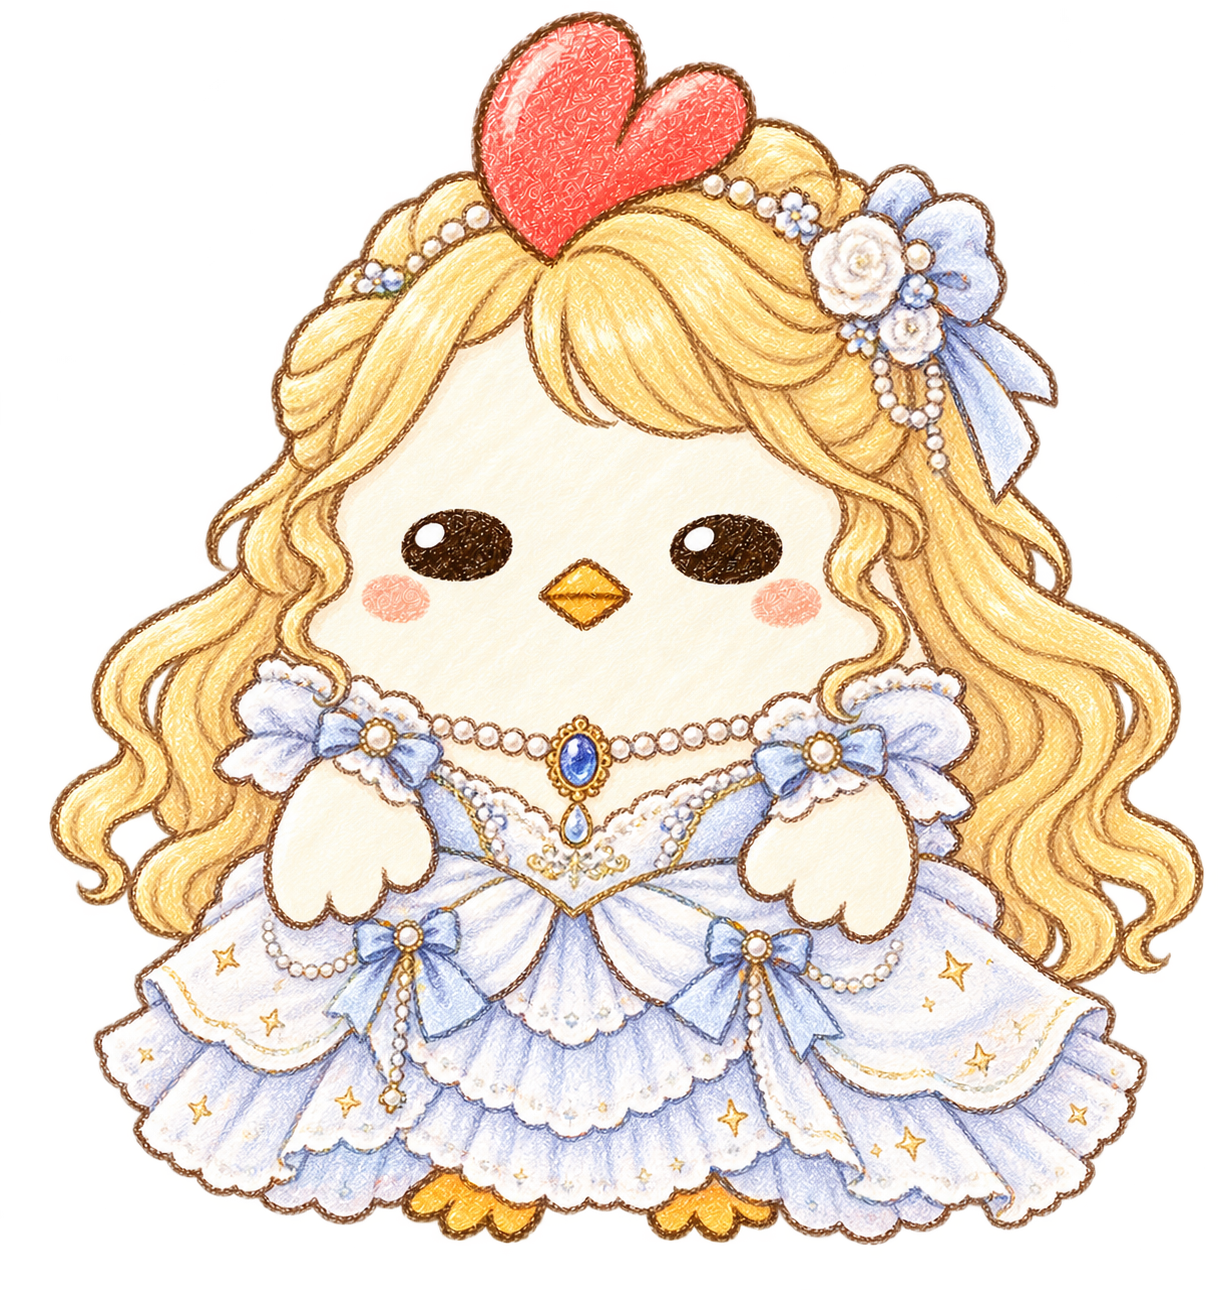
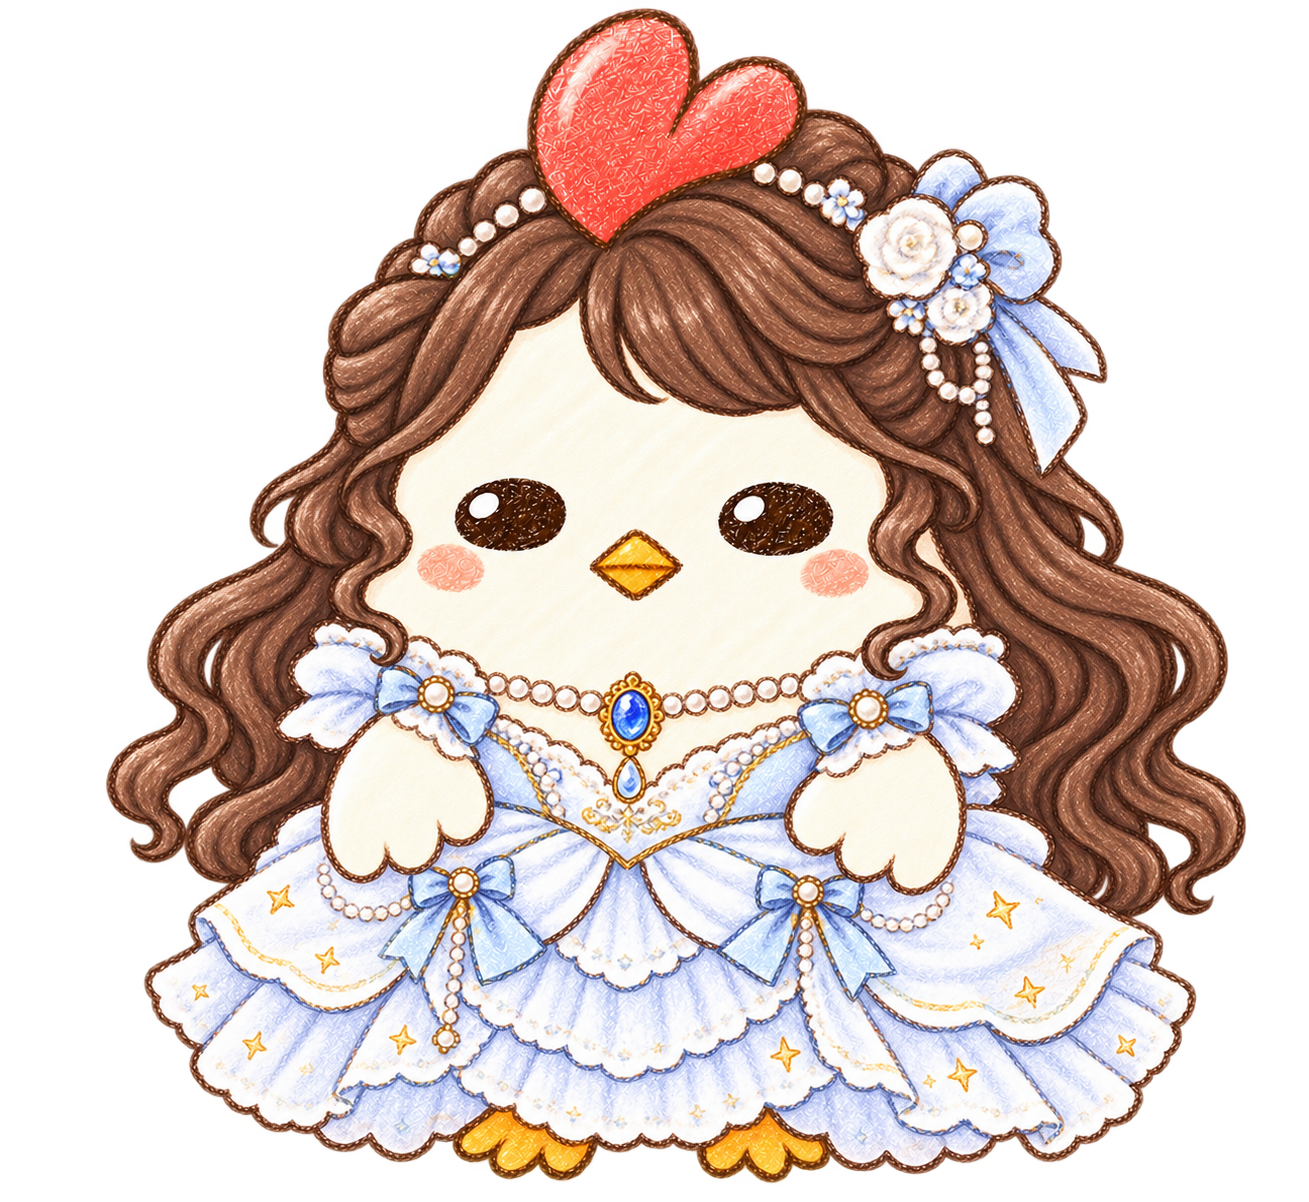
Add tier colors, rename fantasy series, and fix costume copy/art
- Green/purple accent colors for normal/premium tier tags on costume screen
- Rename dark-fantasy series to fantasy, with new costume names/lines
- Fill in flavor text for tshirt and fantasy costume lines
- Fix mismatched princess dress artwork
- Bump expo/expo-constants/expo-file-system to expected SDK 54 versions

diff --git a/src/lib/costumes.ts b/src/lib/costumes.ts
@@ -189,177 +189,177 @@ export const COSTUMES = [
     image: require('@/assets/images/mascot/costume-birthday-cake-premium.png'),
     hasOwnBackground: true,
     ticketCost: null,
-    comment: '',
+    comment: '今日は特別な日だね！\n大切なきみのために\n一生懸命つくったよ!',
   },
   {
     id: 'tshirt-white',
-    label: 'きがるTシャツ（ホワイト）',
+    label: '並盛りほわいと',
     tier: 'normal',
     series: 'daily',
     image: require('@/assets/images/mascot/costume-tshirt-white.png'),
     hasOwnBackground: false,
     ticketCost: 1,
-    comment: '',
+    comment: 'ぐぅぅぅ～\nおなか空いちゃったなあ\nたくさんごはん食べたいかも',
   },
   {
     id: 'tshirt-black',
-    label: 'きがるTシャツ（ブラック）',
+    label: '焦がしぶらっく',
     tier: 'normal',
     series: 'daily',
     image: require('@/assets/images/mascot/costume-tshirt-black.png'),
     hasOwnBackground: false,
     ticketCost: 1,
-    comment: '',
+    comment: 'くろってなんだか\nかっこいい気がするんだ\nちょっぴりおとなの気分！',
   },
   {
     id: 'tshirt-red',
-    label: 'きがるTシャツ（レッド）',
+    label: '完熟れっど',
     tier: 'normal',
     series: 'daily',
     image: require('@/assets/images/mascot/costume-tshirt-red.png'),
     hasOwnBackground: false,
     ticketCost: 1,
-    comment: '',
+    comment: '真っ赤な元気カラー！\nトマトさんみたいでしょ？',
   },
   {
     id: 'tshirt-blue',
-    label: 'きがるTシャツ（ブルー）',
+    label: 'はらぺこぶるー',
     tier: 'normal',
     series: 'daily',
     image: require('@/assets/images/mascot/costume-tshirt-blue.png'),
     hasOwnBackground: false,
     ticketCost: 1,
-    comment: '',
+    comment: '青はごはんがいらなくなる\n色だって言うけど関係ない\nごはんはいつだっておいしい！',
   },
   {
     id: 'tshirt-yellow',
-    label: 'きがるTシャツ（イエロー）',
+    label: 'とろけるいえろー',
     tier: 'normal',
     series: 'daily',
     image: require('@/assets/images/mascot/costume-tshirt-yellow.png'),
     hasOwnBackground: false,
     ticketCost: 1,
-    comment: '',
+    comment: '特別な日の朝ごはんは\nトーストにチーズと目玉焼き！\n元気いっぱいの魔法のごはん',
   },
   {
     id: 'tshirt-green',
-    label: 'きがるTシャツ（グリーン）',
+    label: '採れたてぐりーん',
     tier: 'normal',
     series: 'daily',
     image: require('@/assets/images/mascot/costume-tshirt-green.png'),
     hasOwnBackground: false,
     ticketCost: 1,
-    comment: '',
+    comment: 'お日様浴びたお野菜\n食べたくなってきちゃった\nドレッシングは何がいいかな？',
   },
   {
     id: 'tshirt-pink',
-    label: 'きがるTシャツ（ピンク）',
+    label: 'ときめきぴんく',
     tier: 'normal',
     series: 'daily',
     image: require('@/assets/images/mascot/costume-tshirt-pink.png'),
     hasOwnBackground: false,
     ticketCost: 1,
-    comment: '',
+    comment: '初恋っておいしいのかな？\n甘酸っぱいってことは\nいちごと一緒ってこと？',
   },
   {
     id: 'tshirt-skyblue',
-    label: 'きがるTシャツ（サックス）',
+    label: 'ひんやりそーだ',
     tier: 'normal',
     series: 'daily',
     image: require('@/assets/images/mascot/costume-tshirt-skyblue.png'),
     hasOwnBackground: false,
     ticketCost: 1,
-    comment: '',
+    comment: '水色じゃないよ。ソーダ色\nだってその方がおいしそう\nかき氷食べたくなってきた',
   },
   {
     id: 'tshirt-orange',
-    label: 'きがるTシャツ（オレンジ）',
+    label: 'ごきげんおれんじ',
     tier: 'normal',
     series: 'daily',
     image: require('@/assets/images/mascot/costume-tshirt-orange.png'),
     hasOwnBackground: false,
     ticketCost: 1,
-    comment: '',
+    comment: 'オレンジと言えば\nやっぱり太陽の元気カラー！\n今日もいい日になりそう！',
   },
   {
     id: 'tshirt-purple',
-    label: 'きがるTシャツ（パープル）',
+    label: 'いたずらぱーぷる',
     tier: 'normal',
     series: 'daily',
     image: require('@/assets/images/mascot/costume-tshirt-purple.png'),
     hasOwnBackground: false,
     ticketCost: 1,
-    comment: '',
+    comment: '今日のごはんはなんだろう？\nちょっとくらいつまみ食い\nしてもいいよね？',
   },
   {
     id: 'tshirt-meat-premium',
-    label: 'きがるTシャツ（I♥肉）',
+    label: 'お肉まっしぐら',
     tier: 'premium',
     series: 'daily',
     image: require('@/assets/images/mascot/costume-tshirt-meat-premium.png'),
     hasOwnBackground: true,
     ticketCost: 1,
-    comment: '',
+    comment: 'じゅるり……。\nこのにおい……お肉っっ！！',
   },
   {
     id: 'dark-fantasy-princess',
-    label: 'ダークファンタジー（プリンセスドレス）',
+    label: '私だけの歌姫',
     tier: 'normal',
     series: 'dark-fantasy',
     image: require('@/assets/images/mascot/costume-dark-fantasy-princess.png'),
     hasOwnBackground: false,
     ticketCost: 2,
-    comment: '',
+    comment: '劇場に響き渡る歌姫の声\n私のこと忘れないで\nお昼ごはんは特盛りがいいの',
   },
   {
     id: 'dark-fantasy-mask',
-    label: 'ダークファンタジー（マスカレードドレス）',
+    label: 'わがままプリマドンナ',
     tier: 'normal',
     series: 'dark-fantasy',
     image: require('@/assets/images/mascot/costume-dark-fantasy-mask.png'),
     hasOwnBackground: false,
     ticketCost: 2,
-    comment: '',
+    comment: 'ずっとケーキを見つめているわ\nマスクで顔を隠したら\nバレないとでも思ってる？',
   },
   {
     id: 'dark-fantasy-phantom-premium',
-    label: 'ダークファンタジー（オペラ座の怪人）',
+    label: 'オペラ座の亡霊',
     tier: 'premium',
     series: 'dark-fantasy',
     image: require('@/assets/images/mascot/costume-dark-fantasy-phantom-premium.png'),
     hasOwnBackground: true,
     ticketCost: 1,
-    comment: '',
+    comment: '私の思いは消えないさ\nこのシャンデリアとともに\n本当はみんなと\nごはんを食べたい',
   },
   {
     id: 'dark-fantasy-doll-boy',
-    label: 'ダークファンタジー（おにんぎょう・ボーイ）',
+    label: 'ファンタジー（おにんぎょう・ボーイ）',
     tier: 'normal',
     series: 'dark-fantasy',
     image: require('@/assets/images/mascot/costume-dark-fantasy-doll-boy.png'),
     hasOwnBackground: false,
     ticketCost: 2,
-    comment: '',
+    comment: 'おにんぎょうさんになっちゃった\nカタカタ動くのも\nちょっと楽しいかも？',
   },
   {
     id: 'dark-fantasy-doll-girl',
-    label: 'ダークファンタジー（おにんぎょう・ガール）',
+    label: 'ファンタジー（おにんぎょう・ガール）',
     tier: 'normal',
     series: 'dark-fantasy',
     image: require('@/assets/images/mascot/costume-dark-fantasy-doll-girl.png'),
     hasOwnBackground: false,
     ticketCost: 2,
-    comment: '',
+    comment: 'リボンをつけて\nおすまし人形さんに変身\nでもお腹はぺこぺこだよ',
   },
   {
     id: 'dark-fantasy-puppeteer-premium',
-    label: 'ダークファンタジー（あやつり人形師）',
+    label: 'ファンタジー（あやつり人形師）',
     tier: 'premium',
     series: 'dark-fantasy',
     image: require('@/assets/images/mascot/costume-dark-fantasy-puppeteer-premium.png'),
     hasOwnBackground: true,
     ticketCost: 1,
-    comment: '',
+    comment: '糸を引いてあやつるよ\nみんなの心を動かすのは\nおいしいごはんの魔法かもね',
   },
 ] as const satisfies readonly CostumeDef[];
 

diff --git a/src/app/perokoko-room/costume.tsx b/src/app/perokoko-room/costume.tsx
@@ -55,14 +55,14 @@ const SERIES_FILTERS: { id: CostumeSeries; label: string }[] = [
   { id: 'cooking', label: 'お料理' },
   { id: 'daily', label: '日常' },
   { id: 'animal', label: 'アニマル' },
-  { id: 'dark-fantasy', label: 'ダークファンタジー' },
+  { id: 'dark-fantasy', label: 'ファンタジー' },
 ];
 
 const SERIES_LABEL: Record<CostumeSeries, string> = {
   cooking: 'お料理',
   daily: '日常',
   animal: 'アニマル',
-  'dark-fantasy': 'ダークファンタジー',
+  'dark-fantasy': 'ファンタジー',
 };
 
 const FILTER_PANEL_WIDTH = 220;
@@ -224,8 +224,8 @@ export default function CostumeScreen() {
               <View style={styles.nameTitleRow}>
                 <ThemedText type="smallBold">{selectedOption.label}</ThemedText>
                 <ThemedText
-                  type="small"
-                  themeColor="accent"
+                  type="smallBold"
+                  themeColor={selectedOption.tier === 'premium' ? 'premiumAccent' : 'normalAccent'}
                   style={!selectedOption.tierLabel && styles.tierLabelHidden}>
                   {selectedOption.tierLabel || ' '}
                 </ThemedText>

diff --git a/src/constants/theme.ts b/src/constants/theme.ts
@@ -16,6 +16,8 @@ export const Colors = {
     textSecondary: '#9C8268',
     accent: '#F0955B',
     aiAccent: '#B28962',
+    premiumAccent: '#7C58AD',
+    normalAccent: '#3D7A32',
   },
   dark: {
     text: '#F5E9D6',
@@ -25,6 +27,8 @@ export const Colors = {
     textSecondary: '#C7B79A',
     accent: '#F5A56C',
     aiAccent: '#D6AC80',
+    premiumAccent: '#D9BFFA',
+    normalAccent: '#93C77D',
   },
 } as const;
 
